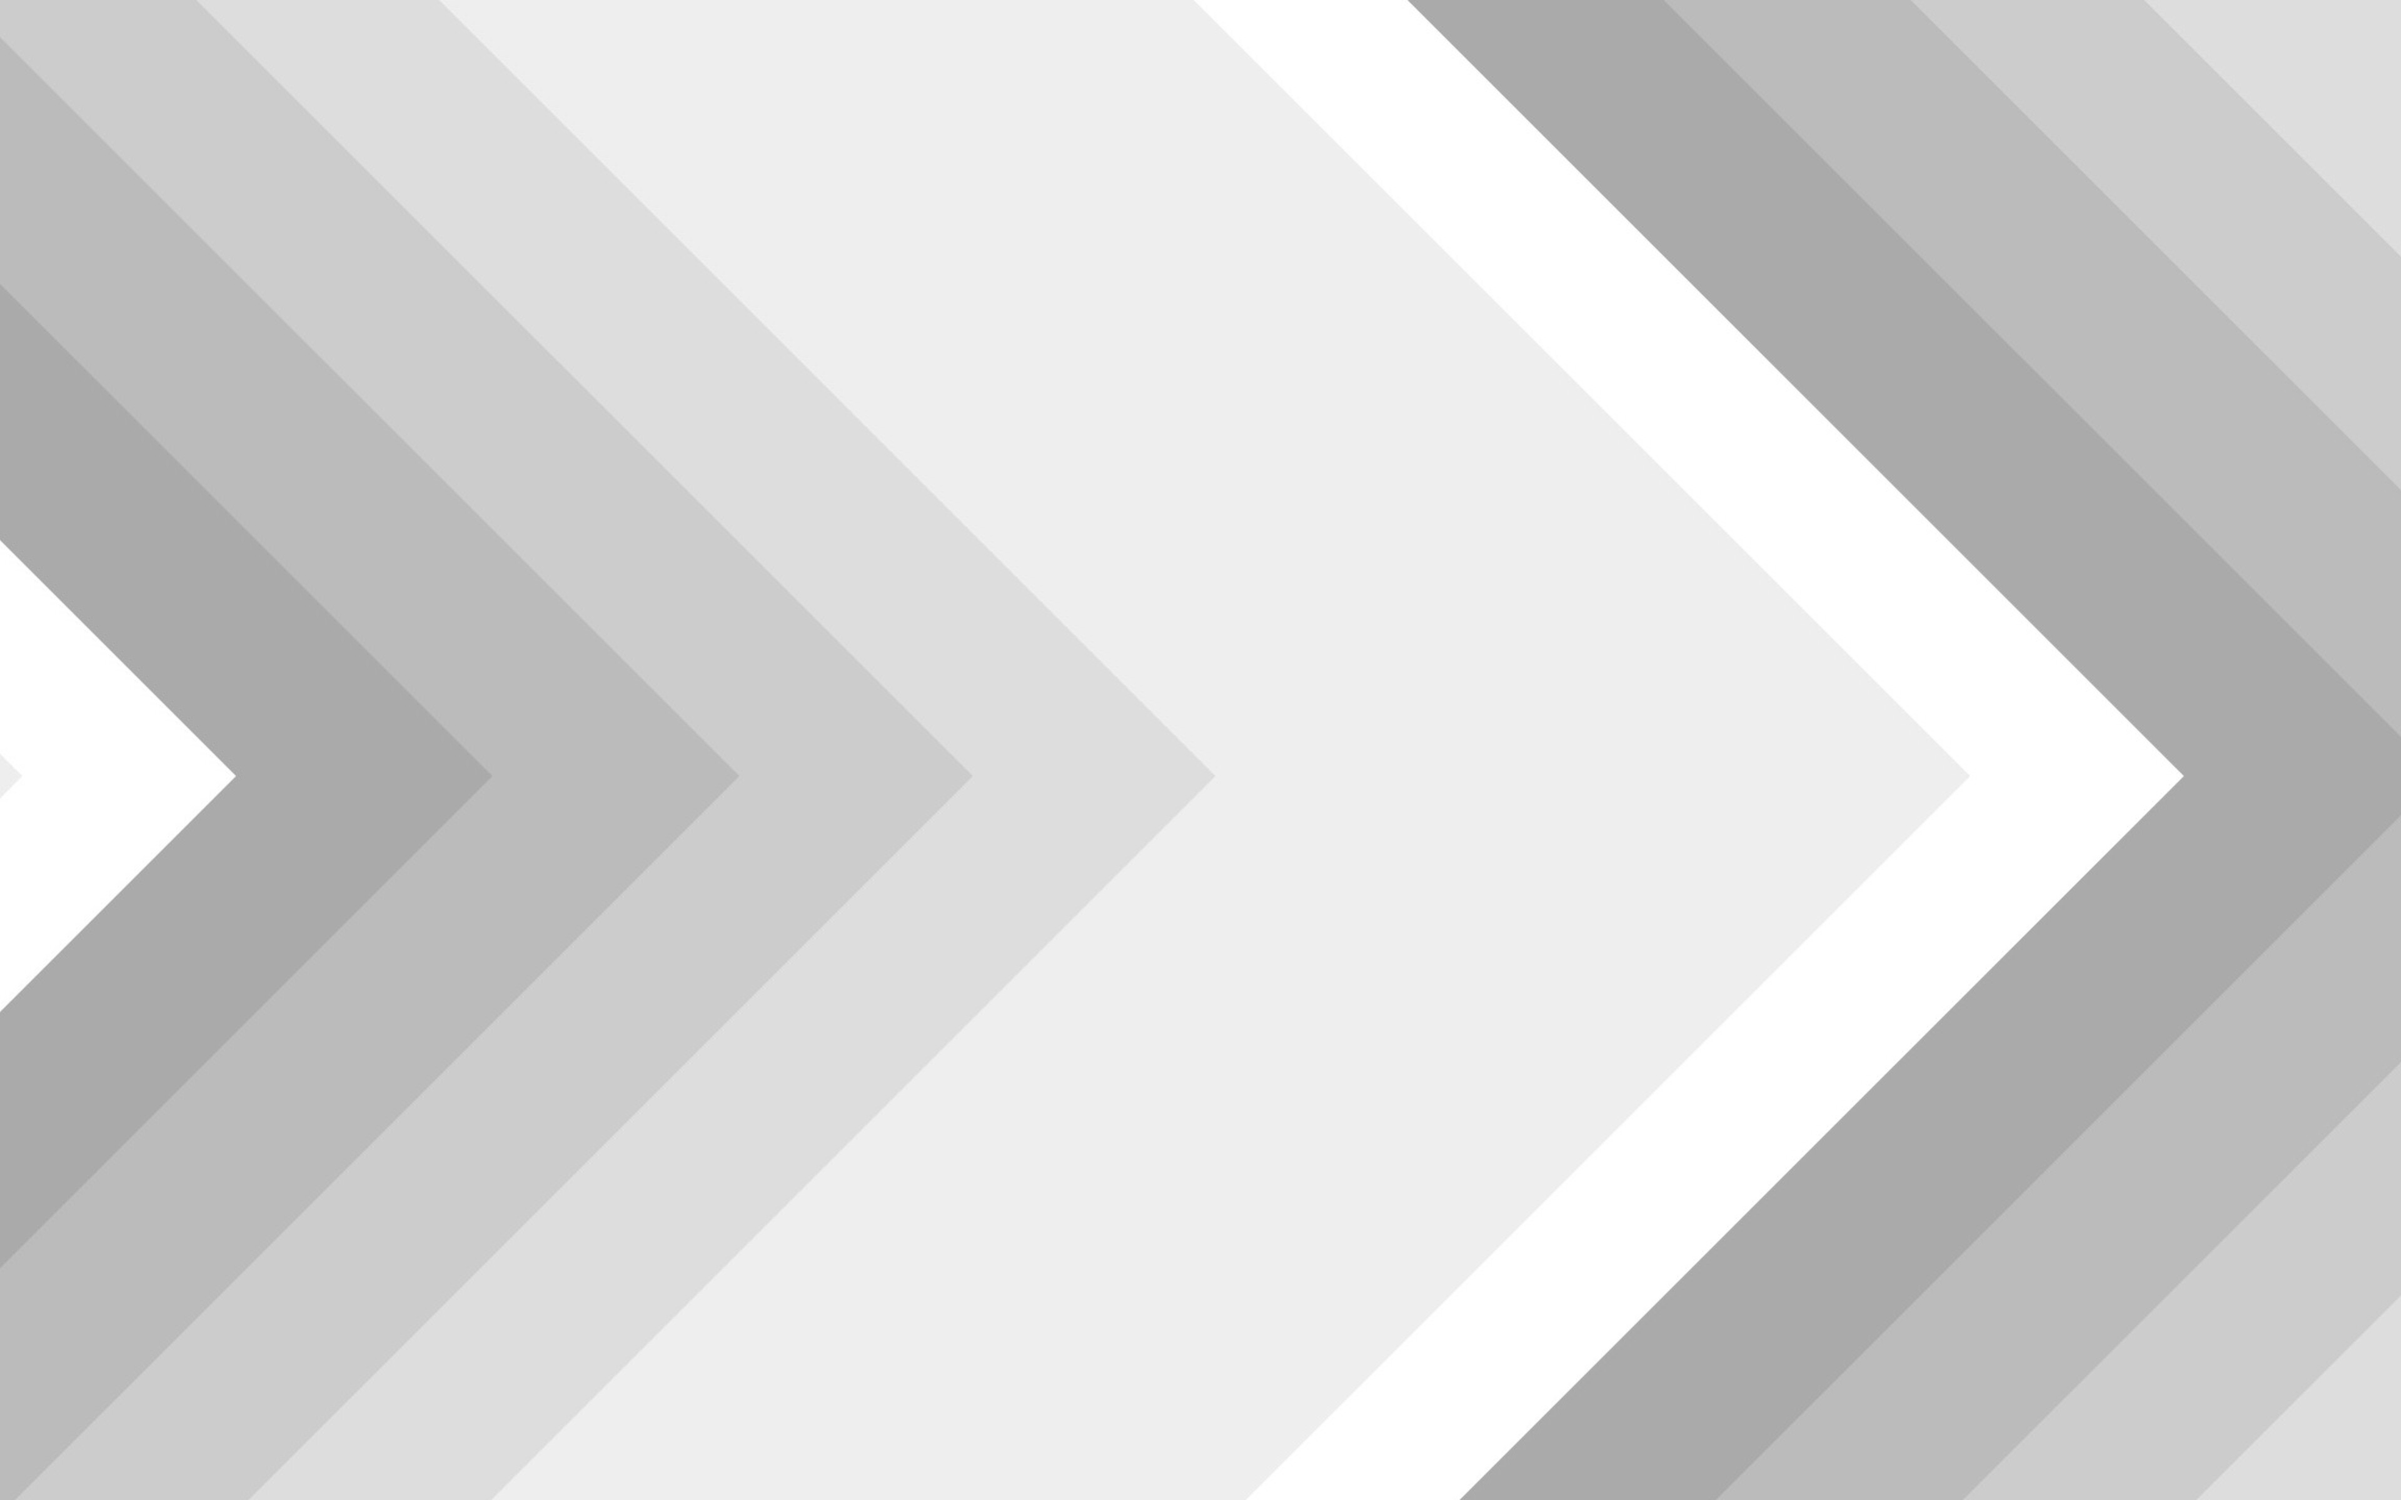
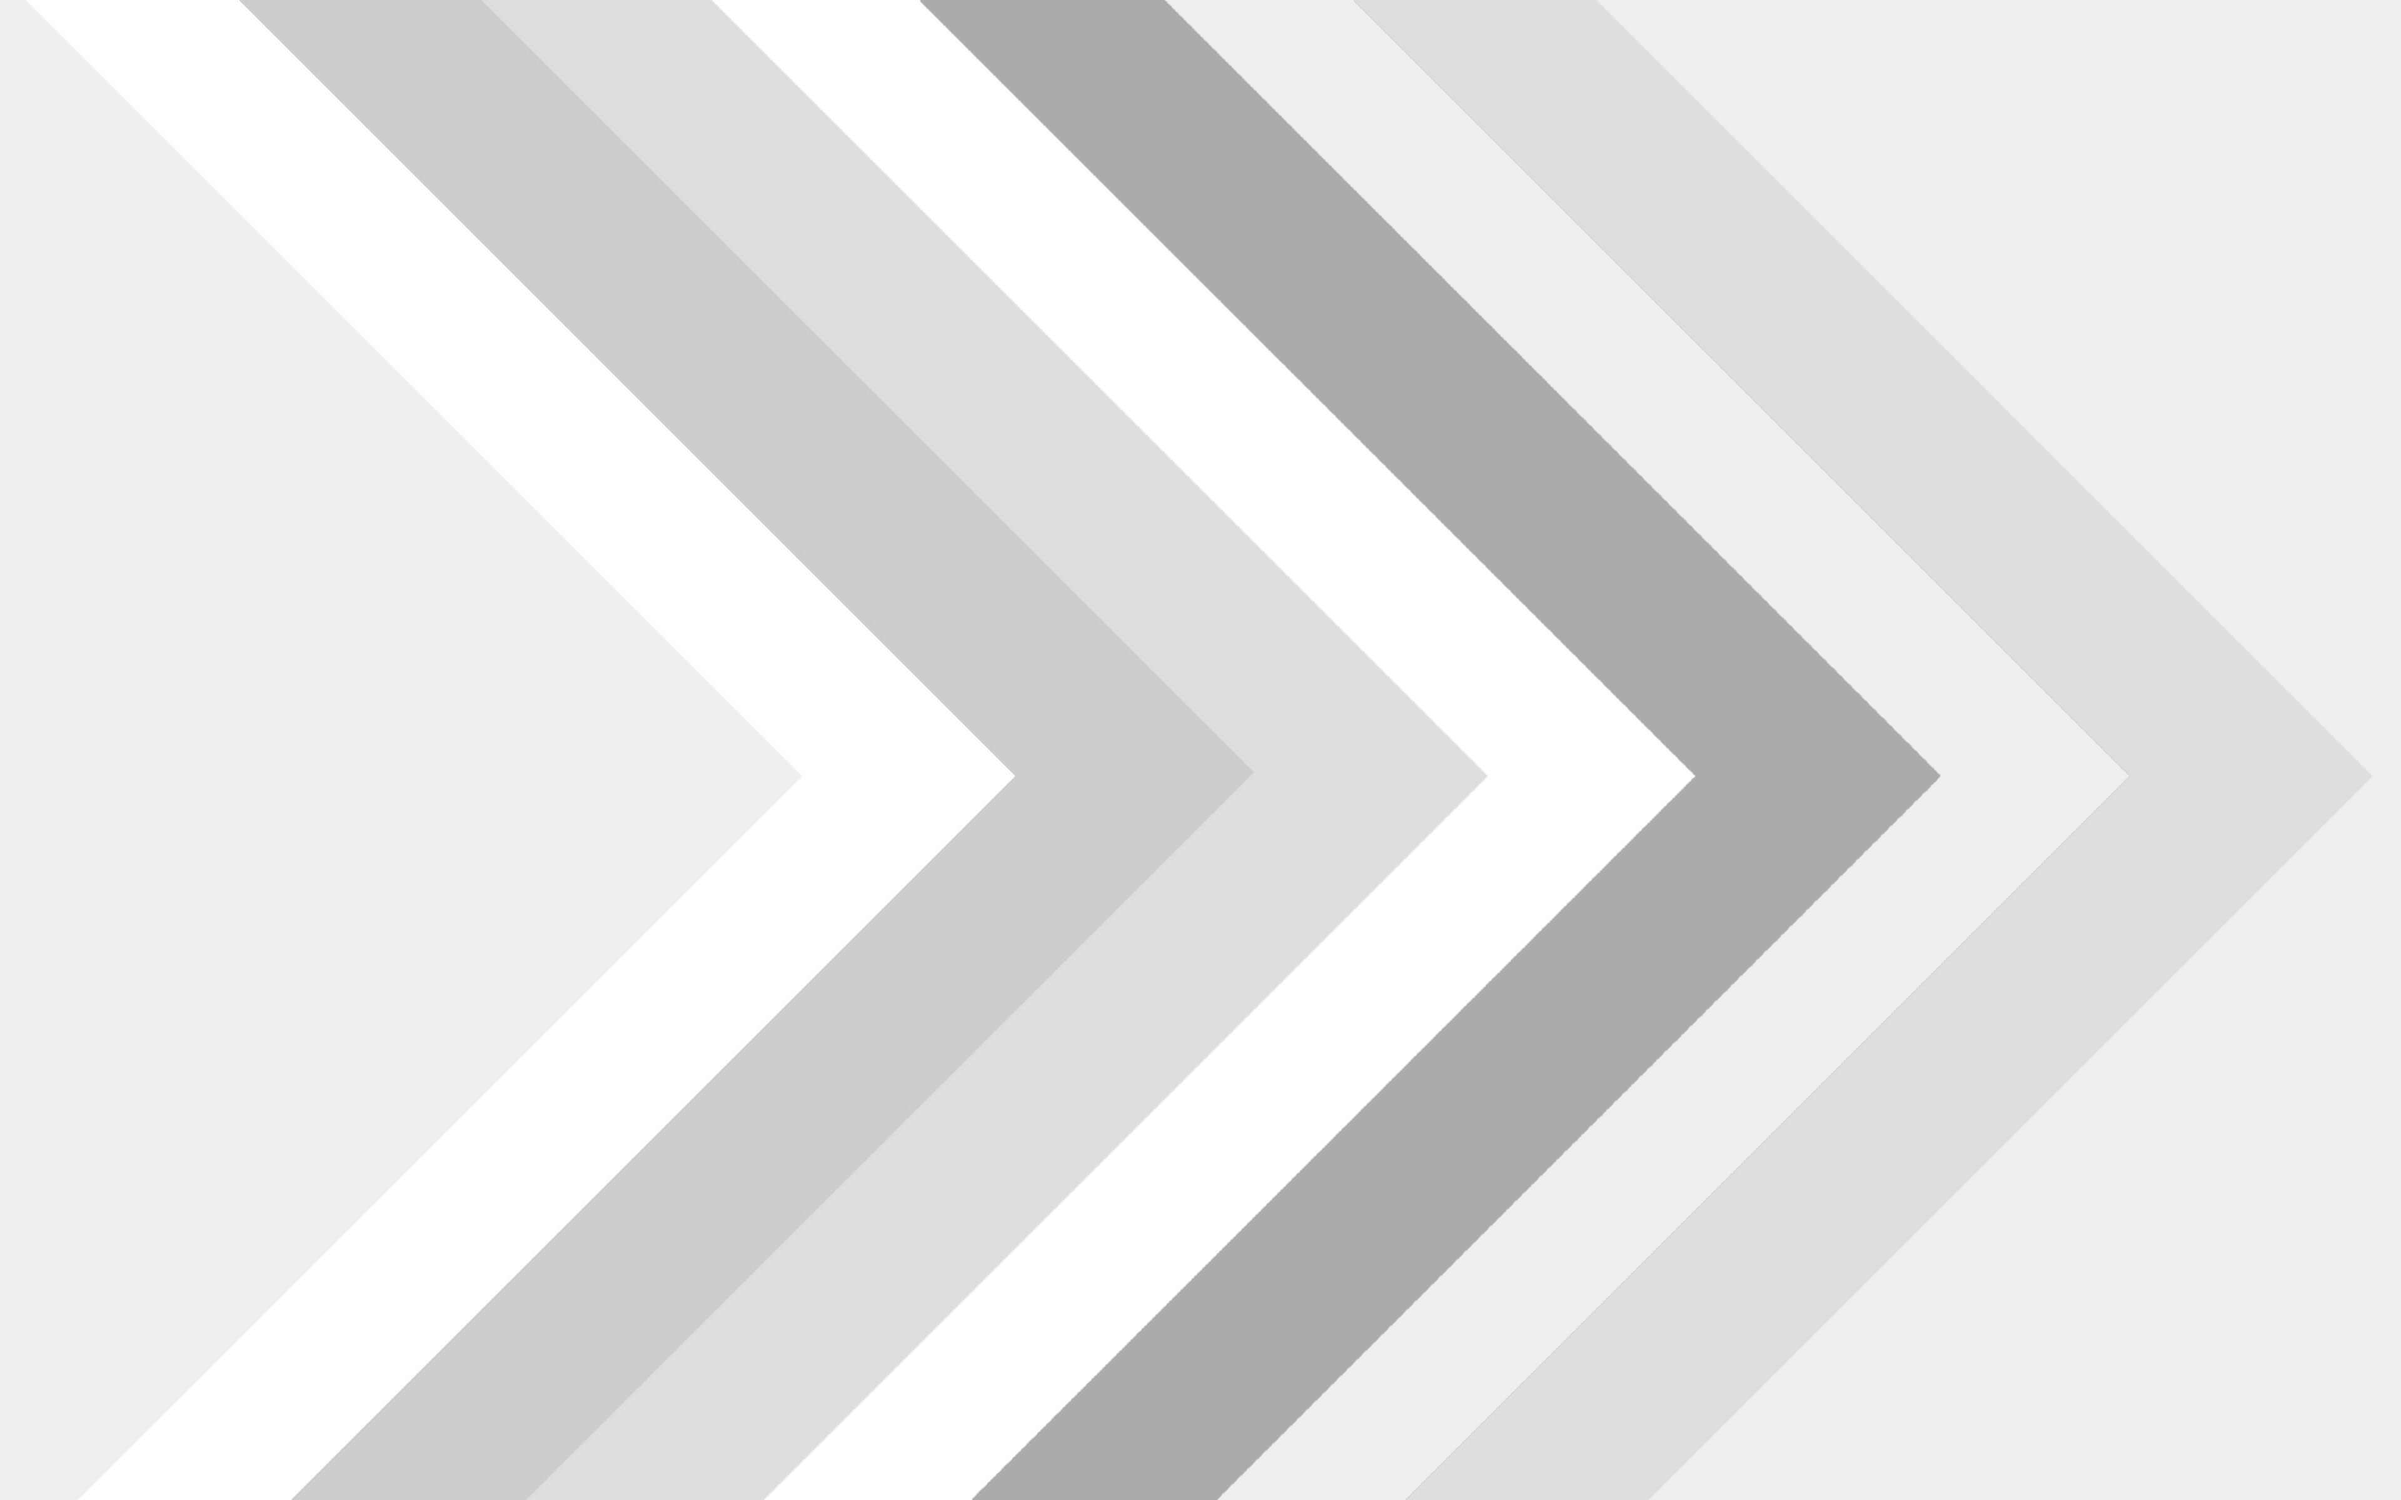
refactor: update style

diff --git a/style.css b/style.css
@@ -223,10 +223,11 @@ main {
   padding: 10px;
   border-radius: 20px;
   box-shadow: 6px 6px 8px 2px rgba(34, 60, 80, 0.4);
-  background: url("https://github.com/YourunB/CV/blob/CV/assets/img/bckg-lines.jpg?raw=true")
-    no-repeat center;
-  background-size: cover;
+  background-color: #efefef;
+  background-image: url("./assets/img/bckg-lines.jpg");
   background-attachment: fixed;
+  background-size: auto 100%;
+  animation: 150s infinite move-bg linear;
 }
 
 footer {
@@ -415,7 +416,23 @@ footer {
   background-color: rgb(100, 100, 100);
 }
 
+@media (max-width: 1920px) {
+  main {
+    animation: 200s infinite move-bg linear;
+  }
+}
+
+@media (max-width: 1280px) {
+  main {
+    animation: 250s infinite move-bg linear;
+  }
+}
+
 @media (max-width: 768px) {
+  main {
+    animation: 350s infinite move-bg linear;
+  }
+
   header {
     flex-wrap: wrap;
     position: relative;
@@ -559,5 +576,17 @@ footer {
   }
   100% {
     background-position: 100% 50%;
+  }
+}
+
+@keyframes move-bg {
+  0% {
+    background-position: 0;
+  }
+  50% {
+    background-position: 1000%;
+  }
+  100% {
+    background-position: 0;
   }
 }
